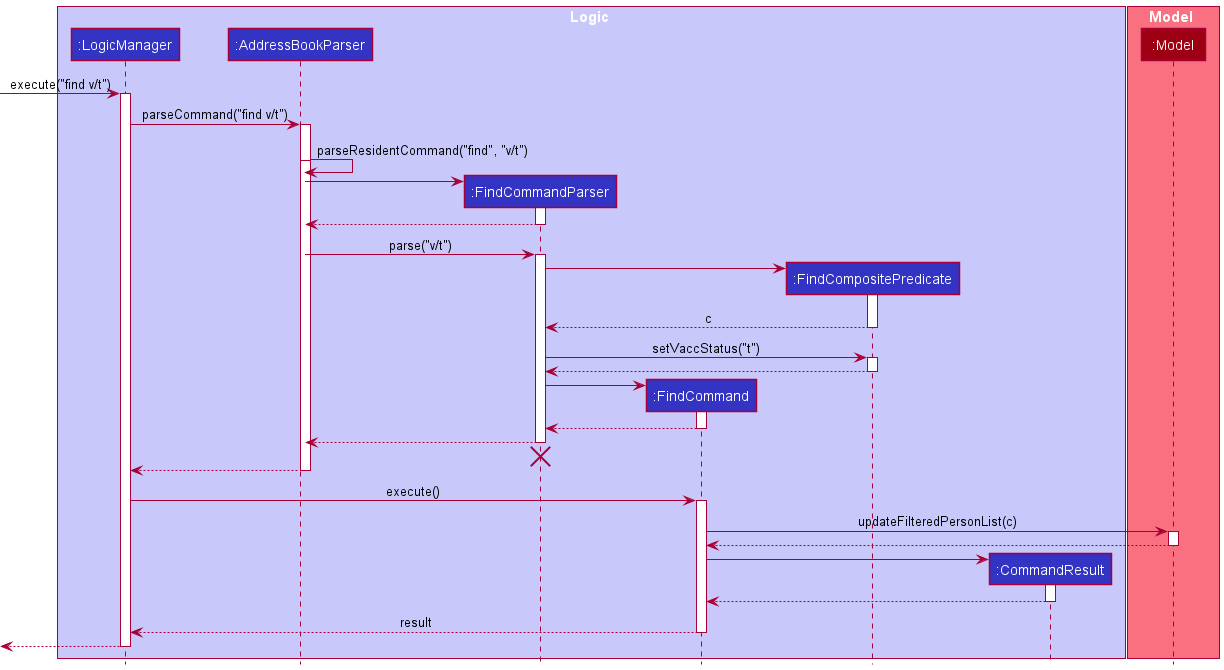
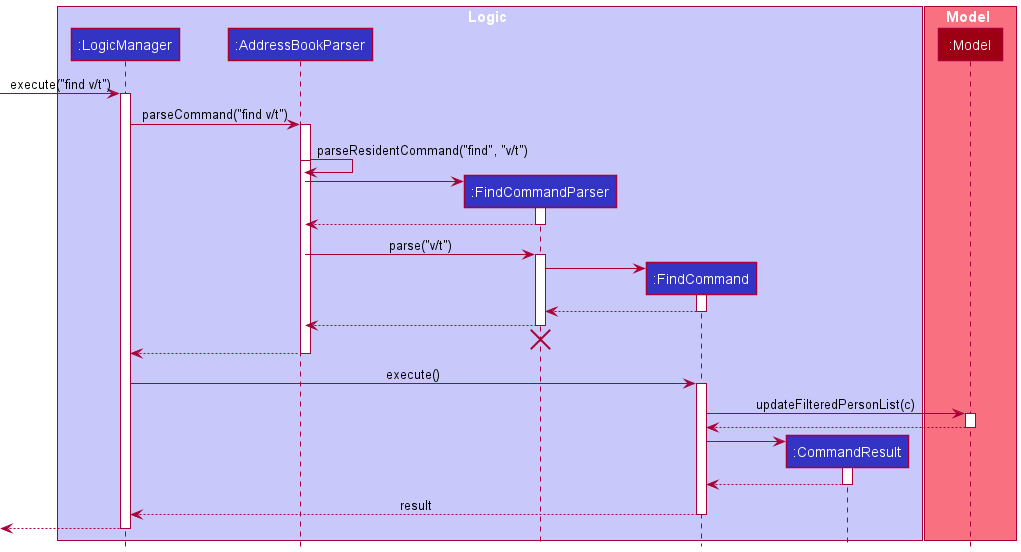
Change diagram widths

Changed region(s): [[0.0, 0.0, 1.0, 0.9855], [0.3036, 0.7083, 0.3643, 0.7699]]

diff --git a/docs/DeveloperGuide.md b/docs/DeveloperGuide.md
@@ -262,7 +262,7 @@ This command allows searching for residents subjected to 1 or more filters for t
 
 The workflow of the Find Person command can be illustrated with an activity diagram as follows:
 
-![FindActivityDiagram](images/logic/commands/findcommand/FindActivityDiagram.png)
+<img src="images/logic/commands/findcommand/FindActivityDiagram.png" width="900" />
 
 How the parsing works:
 1. When `Logic` is called upon to execute the command, it uses the `AddressBookParser` class to parse the user command.
@@ -279,7 +279,7 @@ Note:
 
 The following sequence diagram demonstrates what happens when the `FindCommand` is executed:
 
-![FindCommandSequenceDiagram](images/logic/commands/findcommand/FindCommandSequenceDiagram.png)
+<img src="images/logic/commands/findcommand/FindCommandSequenceDiagram.png" width="900" />
 
 The command extends the `Command` class and implements `FindCommand#execute()` to execute the command.
 
